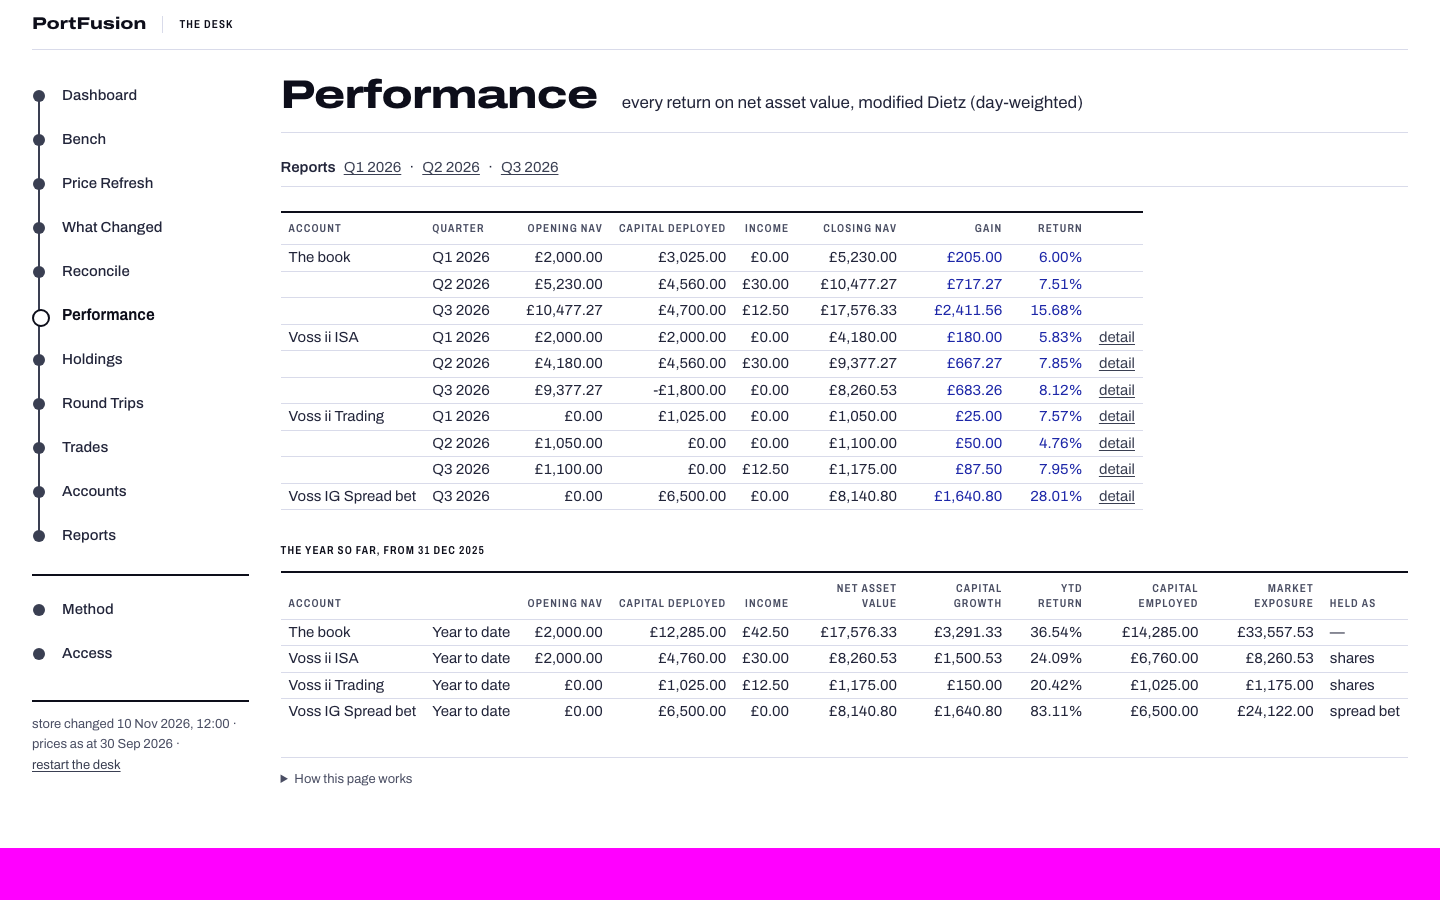
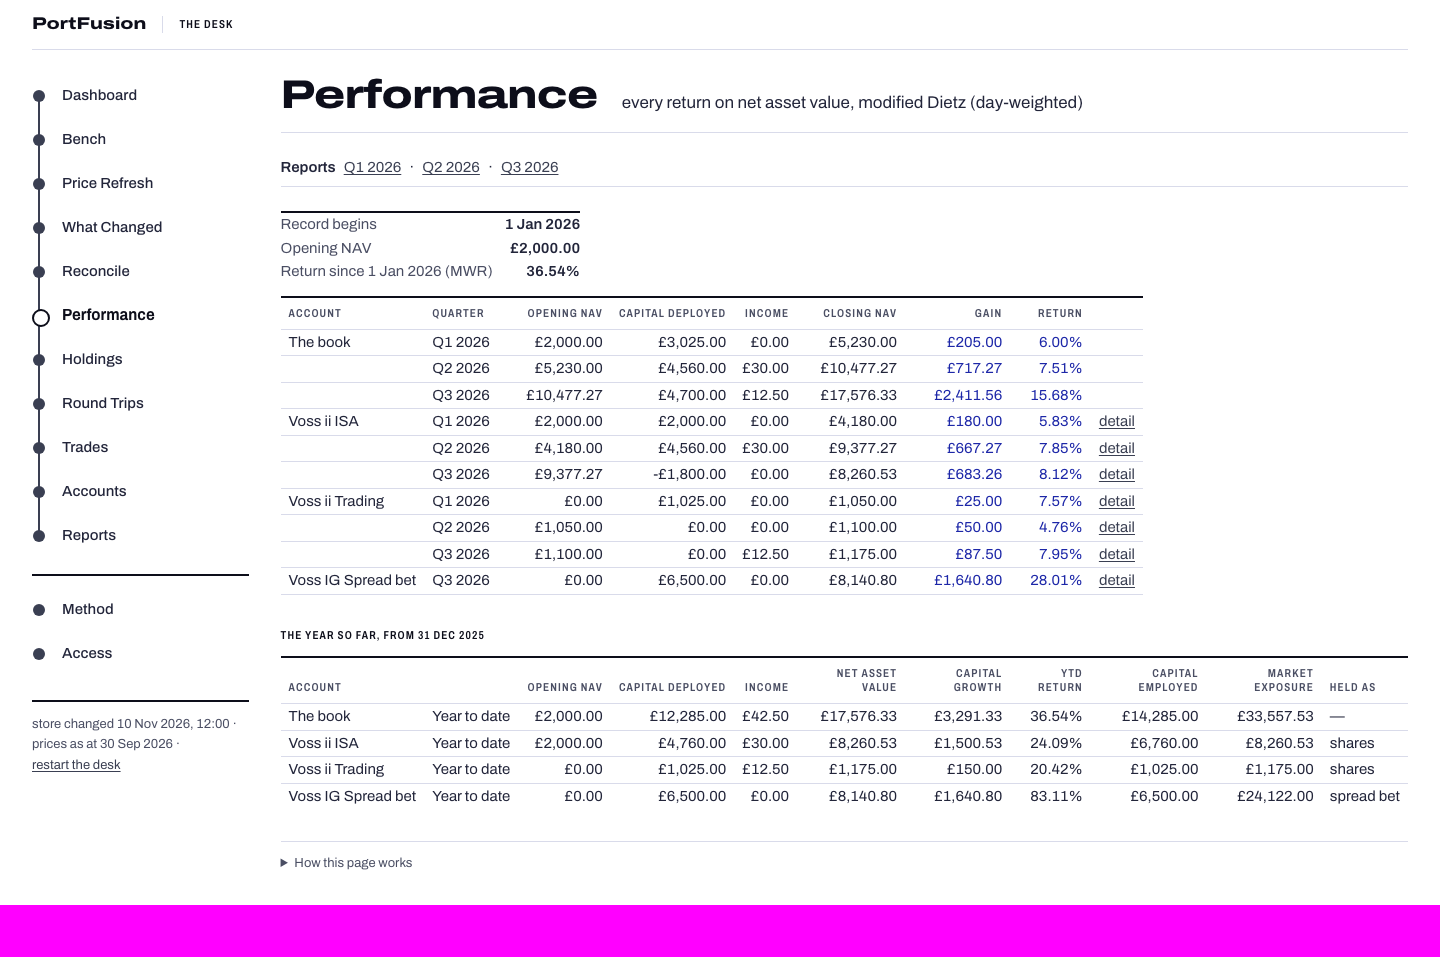
Say where the record begins, and put a holding's history in its detail
The audit's rows 42, 49 and 59. On Performance no figure was named as running
from the book's start, and a reader could not tell whether a buy before the
first quarter was in any figure. A holding's detail was its mark history alone:
what was bought was on Trades and what was received on Accounts, by account.

Performance now leads with the day the record begins, the net asset value it
opened at and the return since, the engine's headline figure under the
engine's label. What was bought before that day is in the opening figure.

A holding's detail now holds the life its company has open, in the figures
Round Trips' life view shows (Book.company_lives()), with a link that opens
that view narrowed to the company; and the income rows that name the holding's
lines, across accounts, or in the account the page is narrowed to. The link
adds the company to Round Trips' Company box when it has no round trip yet.

No figure moves and none is new. The life's four headings move to the common
headings, since two pages now show them; the detail's two parts are headed
Company life and Income and costs, both added to the glossary's headings.

The censuses of the desk's columns and of its unsorted tables move to the new
detail. The walk follows a holding to its company's life.

diff --git a/src/portfusion/desk/static/reading.js b/src/portfusion/desk/static/reading.js
@@ -161,7 +161,8 @@ const holdingDetail = (r, d) => {
   const each = (r.reasons || []).map((x) => [x, detailList(x, d.detail)]).filter(([, h]) => h);
   return each.map(([x, h]) =>
     (r.reasons.length > 1 ? `<p><strong>${esc(x.ticker)}</strong></p>` : "") + h).join("")
-    + detailList(r, ["marks"].filter((c) => d.detail.includes(c)), d.mark_columns);
+    + [["life", d.life_columns], ["income", d.income_columns], ["marks", d.mark_columns]]
+      .map(([c, cols]) => d.detail.includes(c) ? detailList(r, [c], cols) : "").join("");
 };
 
 /* ROUND TRIPS' TWO VIEWS, in the engine's words. */
@@ -384,6 +385,11 @@ Object.assign(DRAW, {
       scope: `every return on ${d.measure}, modified Dietz (day-weighted)`,
       status: d.reports.length ? [{ label: "Reports",
         body: d.reports.map(reportLink).join(" · ") }] : null,
+      /* SINCE THE RECORD BEGAN: the day, what the book stood at, and the engine's return from
+         it. What was bought before that day is in the opening figure and in no return. */
+      figures: [["Record begins", esc(day(d.since.begins))],
+                [sentence(HEADS.opening_nav), money(d.firm[0]?.opening_nav)],
+                [d.since.label, pct(d.since.return)]],
       /* THE BOOK AND EACH ACCOUNT IN ONE TABLE, under one set of heads:
          the same columns named alike, so a figure is read down its column from the book to
          any account. THE ACCOUNT IS A COLUMN, named on its first row and blank on the rest,
@@ -520,6 +526,14 @@ Object.assign(WIRE, {
   },
 
   "round-trips"(d, again) {
+    /* ARRIVED FROM A "company life" LINK: the life view, narrowed to the link's company. The
+       Company box lists the companies with a round trip, so one with none yet is added to it. */
+    if (PENDING_COMPANY && !again) {
+      const box = $("#rt-company");
+      if (box && ![...box.options].some((o) => o.value === PENDING_COMPANY)) box.add(new Option(PENDING_COMPANY));
+      HELD_FILTERS["round-trips"] = { "rt-view": "life", "rt-company": PENDING_COMPANY };
+      PENDING_COMPANY = null;
+    }
     const view = (v) => `/api/round-trips?view=${encodeURIComponent(v["rt-view"] || "holding")}`;
     /* A COMPANY CHOSEN STARTS ITS TICKER AFRESH, and the page comes back with that company's
        codes in the Ticker box. */

diff --git a/src/portfusion/desk/static/kit.js b/src/portfusion/desk/static/kit.js
@@ -313,7 +313,7 @@ const pointsCell = (v) => `<td class="num">${points(v)}</td>`;
 const DETAIL = ["why_entered", "why_exited", "research_notes", "note", "source", "quality",
                 "broker_ref", "trade_id", "sale_id", "realisation_id", "contract", "funding",
                 "fx_at_trade",
-                "fx_from", "marks", "realisations", "lines"];
+                "fx_from", "life", "income", "marks", "realisations", "lines"];
 
 /* EACH WHY UNDER ITS HALF, oldest first, with the date of the trade it explains. An OWED half
    says so in words; a blank before the cut-off says nothing, because nothing is owed — the
@@ -339,6 +339,14 @@ const DETAIL_PART = {
   /* THE LINE'S LAST FIVE REFRESHES, newest first. A spread bet on two contracts shows both, at
      their own levels, and a line whose older marks were banked under its TICKER shows those
      too. */
+  /* A HOLDING'S COMPANY, first purchase to now, in the engine's figures, with the way to its
+     round trips and lines; then the income rows that name the holding's own lines. */
+  life: (x, cols) => !(x.life || []).length ? "" :
+    `<dt>${head("life")}</dt><dd class="wide">${table(x.life, cols, "", () => "", { sort: false })}
+      ${PANELS.has("round-trips")
+        ? `<button class="link" data-life="${esc(x.company)}">company life</button>` : ""}</dd>`,
+  income: (x, cols) => !(x.income || []).length ? "" :
+    `<dt>${head("income")}</dt><dd class="wide">${table(x.income, cols, "", () => "", { sort: false })}</dd>`,
   marks: (x, markCols) => !(x.marks || []).length ? "" :
     `<dt>${head("marks")}</dt><dd class="wide">${table(x.marks, markCols, "", () => "",
       { sort: false,

diff --git a/src/portfusion/desk/static/core.js b/src/portfusion/desk/static/core.js
@@ -177,7 +177,8 @@ const badges = (name) => {
   const a = ACTIONS[name] || {};
   return badge("writes", a.writes) + badge("reaches", a.reaches);
 };
-/* Set by a "trades" link (Holdings, Round Trips) and taken once by Trades, which then HOLDS the
+/* Set by a "trades" link (Holdings, Round Trips) and taken once by Trades, or by a holding's
+   "company life" link and taken once by Round Trips; the page that takes it then HOLDS the
    company as a filter chosen there: the box shows it and "clear filters" sits beside it, so it
    narrows nothing out of sight. */
 let PENDING_COMPANY = null;

diff --git a/src/portfusion/desk/static/app.js b/src/portfusion/desk/static/app.js
@@ -131,6 +131,12 @@ function wireTradeLinks() {
     PENDING_COMPANY = b.dataset.trades;
     openPanel("trades");
   });
+  main.addEventListener("click", (e) => {
+    const b = e.target.closest("[data-life]");
+    if (!b) return;
+    PENDING_COMPANY = b.dataset.life;
+    openPanel("round-trips");
+  });
 }
 
 /* A PAGE TAKES THE WINDOW BY WHAT IT RENDERED, never by a list of panel names, which would drift

diff --git a/src/portfusion/desk/panels/holdings.py b/src/portfusion/desk/panels/holdings.py
@@ -78,7 +78,14 @@ REASON_COLUMNS = ("whys", "research_notes")
 
 #: WHAT A ROW'S DETAIL OPENS, under kit.js's one desk-wide order: the whys, the research notes,
 #: then the mark history (`marks`, MARK_COLUMNS' table).
-DETAIL_COLUMNS = ("why_entered", "why_exited", "research_notes", "marks")
+DETAIL_COLUMNS = ("why_entered", "why_exited", "research_notes", "life", "income", "marks")
+
+#: THE HOLDING'S HISTORY: the life its company has open (`Book.company_lives()`), whole whatever
+#: account the page is narrowed to, then the income rows naming the row's lines in that account,
+#: from the life's first purchase.
+LIFE_COLUMNS = ("opened", "realised", "unrealised", "dividends", "funding_interest", "life_gain",
+                "life_pct")
+INCOME_COLUMNS = ("date", "account", "category", "amount")
 
 #: WHERE THE EXPOSURE SITS, under the table: the report's split, in its order and its words
 #: (house/headings.py's Dashboard ones, as the report's `_allocation` heads them).
@@ -103,6 +110,8 @@ def query(account: str | None = None, by: str = GROUPINGS[0]) -> dict:
         "rows": _rows(frame, columns, b, by, account or None),
         "columns": columns,
         "mark_columns": list(MARK_COLUMNS),
+        "life_columns": list(LIFE_COLUMNS),
+        "income_columns": list(INCOME_COLUMNS),
         "detail": list(DETAIL_COLUMNS),
         "groupings": list(GROUPINGS),
         "grouping_words": GROUPING_WORDS,
@@ -188,8 +197,19 @@ def _rows(frame, columns: list, b, by: str, account) -> list[dict]:
                          REASON_COLUMNS + ("ticker", "company", "why_entered_owed")):
         reasons.setdefault(r[key_col], []).append(r)
 
-    for row, key, size in zip(out, keys, held):
+    income = b.income_rows()
+    if account:
+        income = income[income["account"] == account]
+    lives = b.company_lives()
+    lives = lives[lives["closed"].isna()]
+    for row, key, size, company in zip(out, keys, held, frame["company"]):
         row.update(size)
         row["marks"] = _marks(b.mark_history(key, by=by, account=account))
         row["reasons"] = reasons.get(key, [])
+        tickers = [key] if by == "ticker" else [r["ticker"] for r in row["reasons"]]
+        life = lives[lives["company"] == company]
+        row["life"] = _shape.rows(life, LIFE_COLUMNS, dates=("opened",))
+        # FROM THE LIFE'S FIRST PURCHASE, so the rows are the ones its dividends are made of.
+        mine = income[income["ticker"].isin(tickers) & (income["date"] >= life["opened"].min())]
+        row["income"] = _shape.rows(mine, INCOME_COLUMNS, dates=("date",))
     return out

diff --git a/src/portfusion/tests/desk/test_panels.py b/src/portfusion/tests/desk/test_panels.py
@@ -360,6 +360,13 @@ def test_performance_says_which_basis_every_return_is_on():
     d = performance.data()
     assert d["measure"] == "net asset value"
     assert any("exposure" in c["detail"] for c in d["caveats"])
+    # SINCE THE RECORD BEGAN: the record's day and the engine's figure under the engine's label.
+    from portfusion.desk import engine
+    b = engine.book()
+    assert d["since"]["begins"] == b.D.RECORD_BEGINS.isoformat()
+    assert d["since"]["label"] == b.SINCE_START
+    since = b.headline()[b.SINCE_START]         # blank on a book with no year to date yet
+    assert d["since"]["return"] == (pytest.approx(since) if since == since else None)
 
 
 @needs("buys")
@@ -1110,6 +1117,13 @@ def test_the_judgement_reaches_holdings_and_round_trips():
         "an issuer row dropped an instrument's thesis"
     trip = round_trips.data()["rows"][0]
     assert {"opened", "whys", "research_notes", "why_entered_owed", "why_exited_owed"} <= set(trip)
+    # THE HISTORY UNDER A HOLDING: the engine's life gain, and the income naming the line.
+    lives = b.company_lives()
+    lives = lives[lives["closed"].isna()].set_index("company")["life_gain"]
+    income = b.income_rows().groupby("ticker")["amount"].sum()
+    for r in rows:
+        assert [x["life_gain"] for x in r["life"]] == pytest.approx([lives[r["company"]]])
+        assert sum(x["amount"] for x in r["income"]) == pytest.approx(income.get(r["ticker"], 0))
 
 
 @needs("buys")

diff --git a/src/portfusion/house/headings.py b/src/portfusion/house/headings.py
@@ -97,6 +97,13 @@ COMMON = {
     "mark_key": "Mark key",
     "quality": "Quality",
     "stale": "Stale",
+    # A COMPANY LIFE'S FIGURES (Book.company_lives()), on Round Trips and in a holding's detail.
+    "dividends": "Dividends (GBP)",
+    "funding_interest": "Funding interest (GBP)",
+    "life_gain": "Life gain (GBP)",
+    "life_pct": "Life gain (%)",
+    "life": "Company life",                 # a holding's company, first purchase to now
+    "income": "Income and costs",           # the income rows that name a holding's line
     "marks": "Mark history",                # a line's banked marks, the last part of its detail
     # ---- the judgement ------------------------------------------------------------------------
     "whys": "Why",
@@ -122,10 +129,6 @@ BY_TAB = {
         "exit_level_points": "Exit level (points)",
         # A COMPANY LIFE (the life view, Book.company_lives()).
         "state": "State",
-        "dividends": "Dividends (GBP)",
-        "funding_interest": "Funding interest (GBP)",
-        "life_gain": "Life gain (GBP)",
-        "life_pct": "Life gain (%)",
         "life_cost_per_share": "Life cost per share",
         "realisations": "Round trips",
         "lines": "Lines",

diff --git a/src/portfusion/tests/desk/test_process.py b/src/portfusion/tests/desk/test_process.py
@@ -262,10 +262,10 @@ def test_every_sorting_table_names_itself_and_holds_its_own_sort():
 
 def test_a_table_whose_order_is_its_layout_keeps_it():
     """A table naming the book first and then each account once keeps that order, as a detail's
-    mark history keeps its own."""
+    mark history, life and income keep theirs."""
     kept = {c.split(",")[0].strip() for c in map(_own, _table_calls(desk_script()))
             if "sort: false" in c}
-    assert kept == {"x.marks", "quarters", "d.year", "d.income"}, kept
+    assert kept == {"x.marks", "x.life", "x.income", "quarters", "d.year", "d.income"}, kept
 
 
 def test_every_account_dropdown_offers_individual_accounts_in_the_books_order():

diff --git a/src/portfusion/tests/desk/test_accounts.py b/src/portfusion/tests/desk/test_accounts.py
@@ -192,7 +192,11 @@ PANEL_COLUMNS = {
         ),
         "MARK_COLUMNS": ("date", "mark_key", "price", "currency", "source"),
         "REASON_COLUMNS": ("whys", "research_notes"),
-        "DETAIL_COLUMNS": ("why_entered", "why_exited", "research_notes", "marks"),
+        "DETAIL_COLUMNS": ("why_entered", "why_exited", "research_notes", "life", "income",
+                           "marks"),
+        "LIFE_COLUMNS": ("opened", "realised", "unrealised", "dividends", "funding_interest",
+                         "life_gain", "life_pct"),
+        "INCOME_COLUMNS": ("date", "account", "category", "amount"),
     },
     "round-trips": {
         "COLUMNS": (

diff --git a/src/portfusion/desk/panels/performance.py b/src/portfusion/desk/panels/performance.py
@@ -73,6 +73,9 @@ def data() -> dict:
         "year_columns": list(YEAR_COLUMNS),
         "year_opens": b.ytd_opens(),
         "measure": "net asset value",
+        # SINCE THE RECORD BEGAN: the day, and the engine's linked return under its own label.
+        "since": {"begins": b.D.RECORD_BEGINS.isoformat(), "label": b.SINCE_START,
+                  "return": _shape.plain(b.since_start())},
         # EACH QUARTER'S REPORT THE GATE ALLOWS, oldest first, as the table reads.
         "reports": [q for q in engine.reports()["quarters"][::-1] if q["closed"] and not q["gaps"]],
         "caveats": _caveats(b),

diff --git a/CHANGELOG.md b/CHANGELOG.md
@@ -24,6 +24,10 @@ No figure moves, and there is no migration. Do these when the book's pin moves.
   items ready on the Bench. An "owed" tag on Round Trips and Holdings is the link to the Bench.
 - **Reconcile lists an account never read**, as "No reading", and a row not judged links to where
   its reading is taken.
+- **Performance says where the record begins**: the day, the opening net asset value and the
+  return since, above the quarters.
+- **A holding's detail holds its history**: its company's life in the engine's figures, the
+  income rows that name it, and a link to the company's life on Round Trips.
 - **`docs/ux-audit.md`**: a newcomer's walk of the desk on the demo, 70 ranked findings.
 
 ### Changed

diff --git a/docs/glossary.md b/docs/glossary.md
@@ -162,6 +162,8 @@ The three sum exactly to **Change (GBP)**; the order they are taken in is
 |---|---|---|
 | How far a line's mark moved, against its own previous mark | **Mark move (%)** | not the change in value |
 | Every banked mark behind one line | **Mark history** | the end of a Holdings row's detail |
+| A holding's company, first purchase to now | **Company life** | in a Holdings row's detail; the concept is §5b's |
+| The income rows that name one line | **Income and costs** | in a Holdings row's detail, as Accounts heads the year's |
 
 ## 5b · The book's concepts
 
